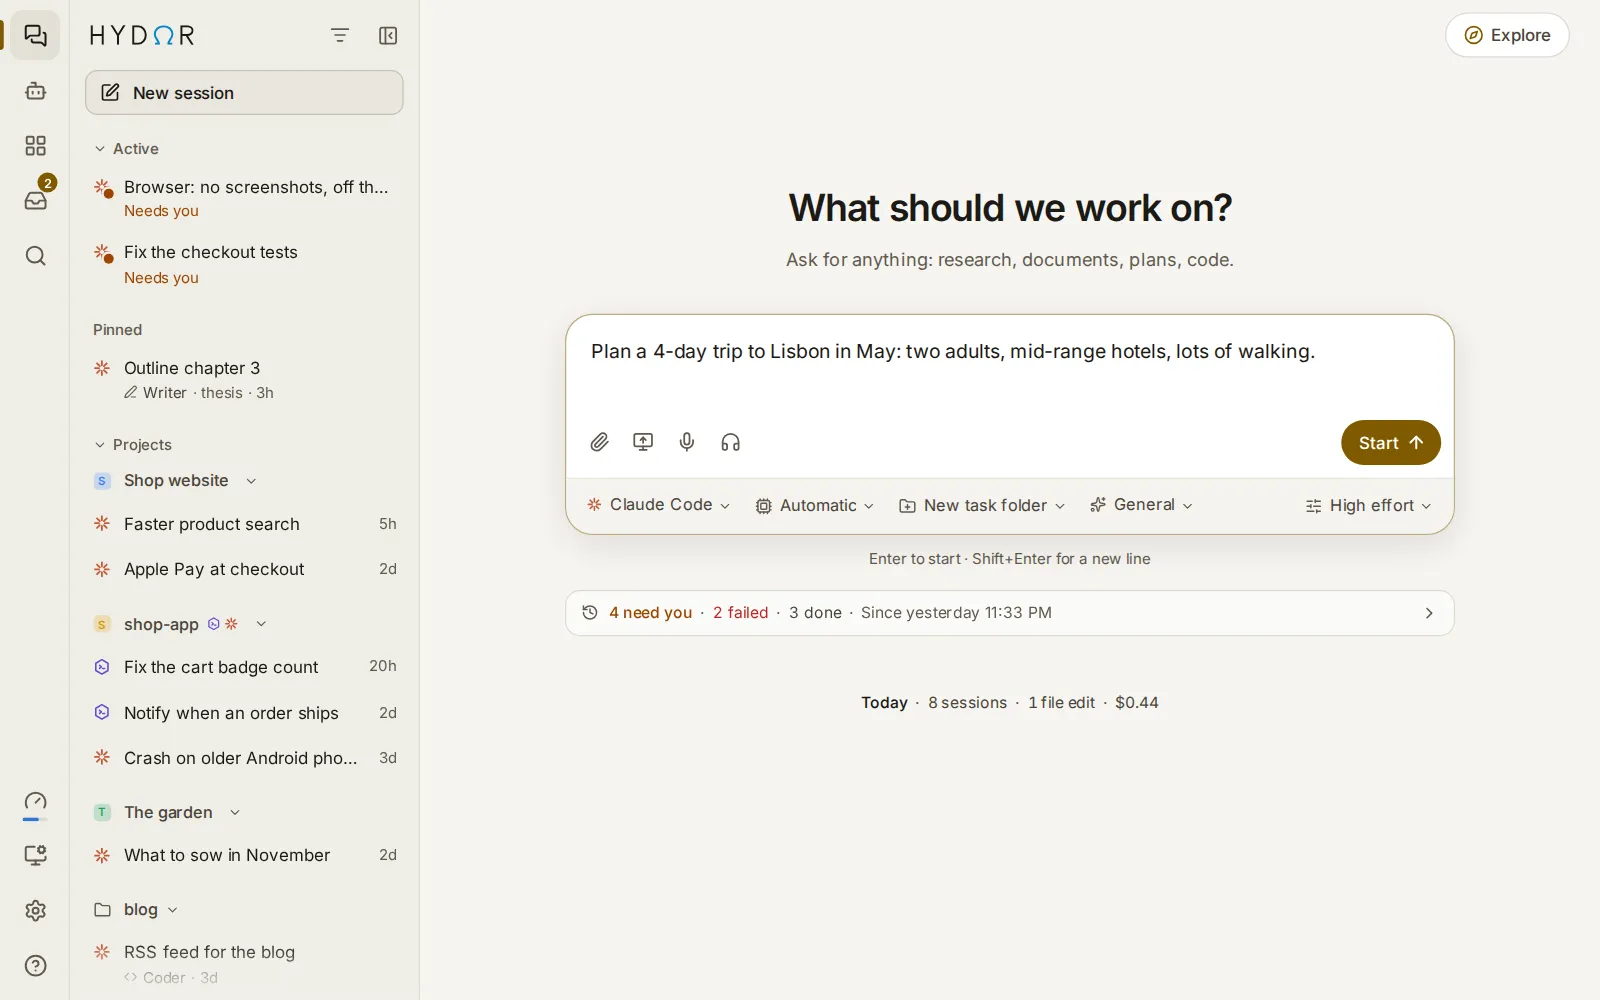
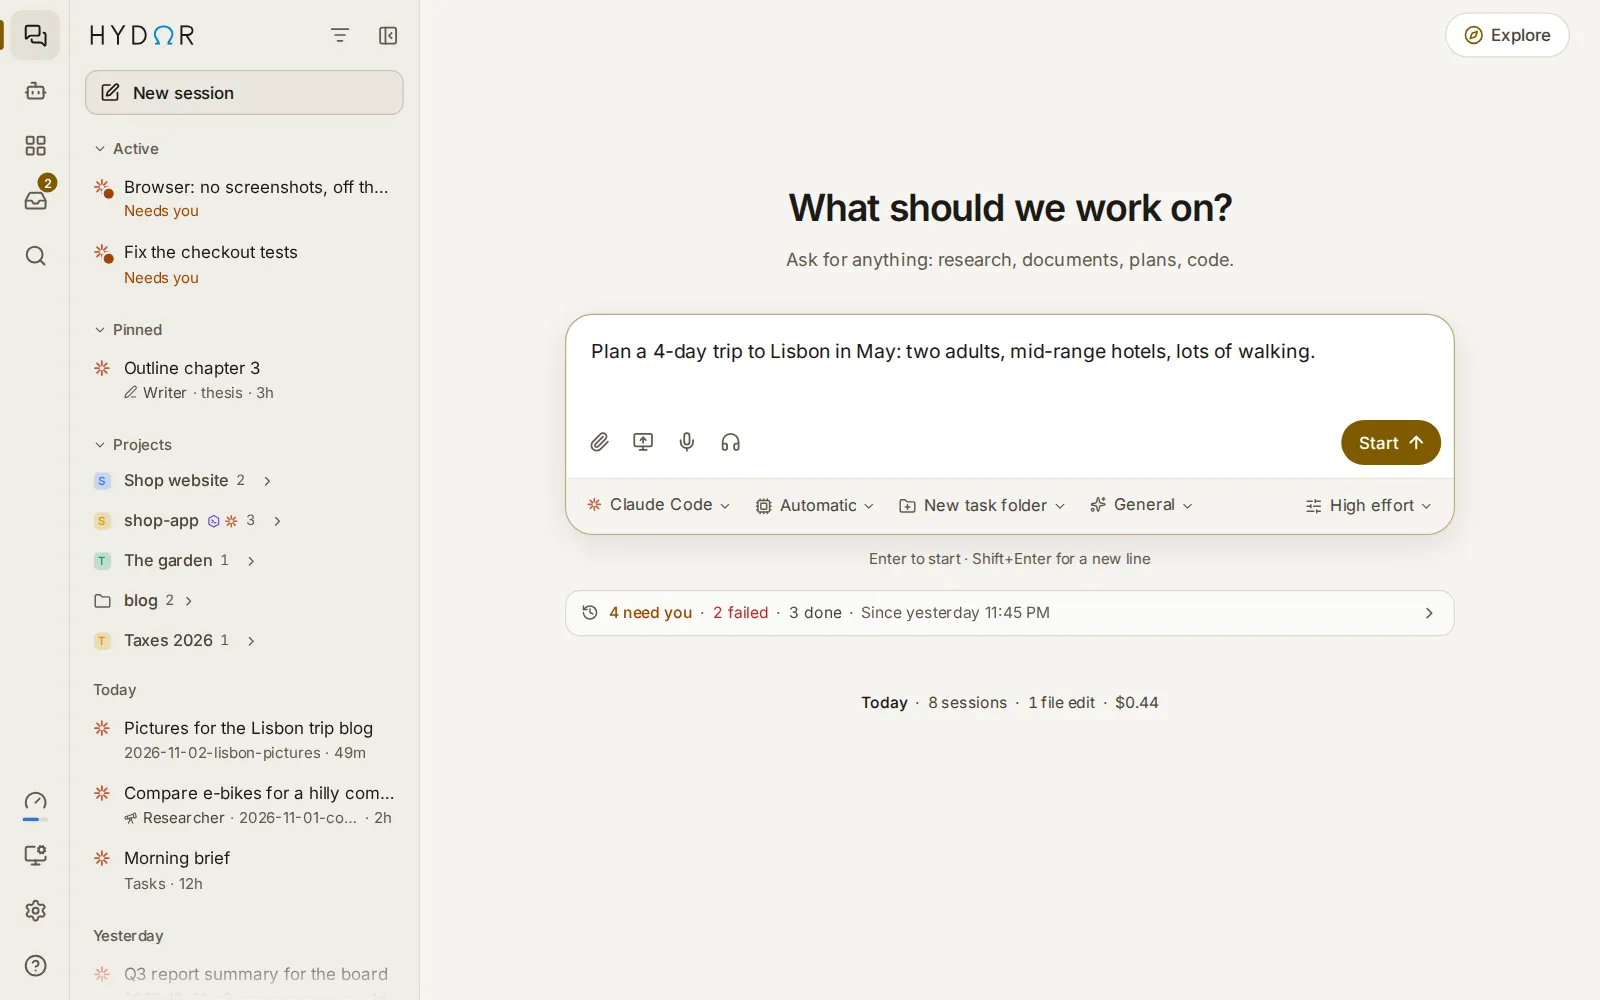
Windows open with motion, Pinned folds like Active, and the Projects groups start folded. Under Motion: Full, windows come in over a page whose dim fades in (.scrim.holds::before, and .anim-overlay for a popover shown as a phone's sheet): a dialog or a window (Dialog, the project's details, FilePeek

diff --git a/web/src/features/sessions/SessionList.tsx b/web/src/features/sessions/SessionList.tsx
@@ -534,6 +534,26 @@ const DraggableRow = memo(function DraggableRow(p: RowProps) {
   return <RowShell {...p} drag={{ ref: setNodeRef, attrs: { ...attributes, ...(listeners as HTMLAttributes<HTMLDivElement>) }, lifted: isDragging }} />;
 });
 
+/**
+ * The Active and Pinned headings: a click (a tap) folds the section away and opens it again, as each computer keeps it.
+ * Folded, it says how many sessions it holds, with a dot when one finished since you last looked.
+ */
+function SectionHead({ label, folded, count, unread, onFold }: { label: string; folded: boolean; count: number; unread: boolean; onFold: () => void }) {
+  return (
+    <button
+      type="button"
+      aria-expanded={!folded}
+      onClick={onFold}
+      className="sticky top-0 z-[1] flex w-full items-center gap-1 bg-sidebar px-2.5 pt-1.5 pb-1 text-left text-[12px] font-medium text-fg-3 hover:text-fg-2"
+    >
+      <ChevronRight size={12} className={cx('shrink-0 transition-transform duration-200', !folded && 'rotate-90')} />
+      {label}
+      {folded && <span className="tnum ml-0.5 font-normal">{count}</span>}
+      {folded && unread && <span className="ml-0.5 h-1.5 w-1.5 shrink-0 rounded-full bg-accent" title="Finished since you last looked" />}
+    </button>
+  );
+}
+
 function PinZone({ hot }: { hot: boolean }) {
   const { setNodeRef } = useDroppable({ id: PIN_ZONE });
   return (
@@ -952,7 +972,7 @@ export function SessionList({ query }: { query: string }) {
   const folds = useUI((s) => s.groupFolds);
   const sectionFolds = useUI((s) => s.sidebarSectionFolds);
   // Top-level sections are independent of the project and folder folds inside them.
-  const foldSection = (section: 'active' | 'projects') => {
+  const foldSection = (section: 'active' | 'pinned' | 'projects') => {
     const current = useUI.getState().sidebarSectionFolds;
     useUI.getState().set({ sidebarSectionFolds: { ...current, [section]: !current?.[section] } });
   };
@@ -1008,7 +1028,7 @@ export function SessionList({ query }: { query: string }) {
   /** Folds a group or opens it; the 200 changed last are kept. */
   const fold = (g: SessionGroup) => {
     const all = useUI.getState().groupFolds;
-    const shut = isFolded(g, all, Date.now());
+    const shut = isFolded(g, all);
     const { [g.id]: _, ...rest } = all;
     useUI.getState().set({ groupFolds: { ...Object.fromEntries(Object.entries(rest).slice(-199)), [g.id]: !shut } });
   };
@@ -1120,14 +1140,19 @@ export function SessionList({ query }: { query: string }) {
   const dragging = dragKey ? byKey[dragKey] : null;
   const draggingPlace = dragPlace ? groups.find((g) => g.id === dragPlace) : undefined;
   const datedDrag = !!dragKey && groupOf.get(dragKey) === 'dated';
-  // No Pinned group yet: dragging a dated session shows where to drop it to pin it.
-  const zoneAt = datedDrag && !groups.some((g) => g.kind === 'pinned') ? (groups[0]?.kind === 'active' ? 1 : 0) : -1;
+  // Dragging a dated session shows where to drop it to pin it while there are no Pinned rows to drop it among: no
+  // Pinned group yet (under Active, or first), or Pinned folded (under its heading).
+  const pinAt = groups.findIndex((g) => g.kind === 'pinned');
+  const zoneAt = !datedDrag ? -1 : pinAt < 0 ? (groups[0]?.kind === 'active' ? 1 : 0) : sectionFolds?.pinned ? pinAt + 1 : -1;
   // What each group shows: a space's or a folder's newest few (all once asked, none while folded), and the session open.
-  // While one of those groups is dragged, they all show as their headings alone.
-  const now = Date.now();
-  const shut = new Set(groups.filter((g) => isPlace(g) && (!!dragPlace || isFolded(g, folds, now))).map((g) => g.id));
+  // While one of those groups is dragged, they all show as their headings alone. Active or Pinned folded keeps only the
+  // session open in sight.
+  const shut = new Set(groups.filter((g) => isPlace(g) && (!!dragPlace || isFolded(g, folds))).map((g) => g.id));
   const shownRows = groups.map((g) => {
-    if (g.kind === 'active' && sectionFolds?.active) return [];
+    if ((g.kind === 'active' || g.kind === 'pinned') && sectionFolds?.[g.kind]) {
+      const open = activeKey ? g.items.find((s) => s.key === activeKey) : undefined;
+      return open ? [open] : [];
+    }
     if (!isPlace(g)) return g.items;
     if (dragPlace) return [];
     const rows = shut.has(g.id) ? [] : shownWhole.has(g.id) ? g.items : g.items.slice(0, GROUP_ROWS);
@@ -1189,10 +1214,8 @@ export function SessionList({ query }: { query: string }) {
       <>
         {place ? (
           <PlaceHead g={g} folded={shutNow} home={home} onFold={() => fold(g)} handle={handle} />
-        ) : g.kind === 'active' ? (
-          <button type="button" aria-expanded={!sectionFolds?.active} onClick={() => foldSection('active')} className="sticky top-0 z-[1] flex w-full items-center gap-1 bg-sidebar px-2.5 pt-1.5 pb-1 text-left text-[12px] font-medium text-fg-3 hover:text-fg-2">
-            <ChevronRight size={12} className={cx('shrink-0 transition-transform duration-200', !sectionFolds?.active && 'rotate-90')} />{g.label}
-          </button>
+        ) : g.kind === 'active' || g.kind === 'pinned' ? (
+          <SectionHead label={g.label} folded={!!sectionFolds?.[g.kind]} count={g.items.length} unread={g.items.some(unreadOf)} onFold={() => foldSection(g.kind as 'active' | 'pinned')} />
         ) : (
           <div className="sticky top-0 z-[1] bg-sidebar px-2.5 pt-1.5 pb-1 text-[12px] font-medium text-fg-3">{g.label}</div>
         )}
@@ -1261,6 +1284,7 @@ export function SessionList({ query }: { query: string }) {
         {listed.map((part) =>
           part.kind === 'places' ? (
             <Fragment key={`places:${part.first}`}>
+              {part.first === zoneAt && <PinZone hot={overGroup === 'pinned'} />}
               <div className={cx('group/sec flex items-center pr-2', part.first > 0 && 'mt-2')}>
                 <button type="button" data-tip="spaces" aria-expanded={!sectionFolds?.projects} onClick={() => foldSection('projects')} className="flex min-w-0 flex-1 items-center gap-1 px-[18px] pt-1.5 pb-1 text-left text-[12px] font-medium text-fg-3 hover:text-fg-2">
                   <ChevronRight size={12} className={cx('shrink-0 transition-transform duration-200', !sectionFolds?.projects && 'rotate-90')} />Projects

diff --git a/web/src/styles.css b/web/src/styles.css
@@ -276,15 +276,16 @@ html {
    something changed: a pressed button dips, a rail icon leans to the pointer, a copy turns into a check, a switch
    springs, the rail's bar glides to the page you opened, a session's dot changes with its status, lists glide to their
    new places, numbers count, a badge pops, the logo's water rises once when a session finishes, pictures shimmer
-   until they arrive, a finished step draws its check. Four things bend the old rule that what you open shows at once,
+   until they arrive, a finished step draws its check. Five things bend the old rule that what you open shows at once,
    with no fade, because they make a change easier to follow than a cut does: the column beside a page slides, pages
-   and themes cross-fade (and the sidebar slides, in Shell.tsx). The rest of the rule stands: pages, tabs, dialogs, menus,
-   popovers, sheets and the parts you unfold show at once, and only what arrives by itself comes in softly: a message,
-   a toast, a card asking you something.
+   and themes cross-fade (and the sidebar slides, in Shell.tsx), and windows come in over a page that dims in behind
+   them (.anim-modal and its kin, below the scrims). The rest of the rule stands: pages, tabs, menus, popovers and the
+   parts you unfold show at once, and only what arrives by itself comes in softly: a message, a toast, a card asking
+   you something.
 
-   Settings → General → Appearance → Motion is on <html> as data-motion: full (all of it), calm (all but the four that
+   Settings → General → Appearance → Motion is on <html> as data-motion: full (all of it), calm (all but the five that
    move as you open things) or off (none of it). The system's Reduce motion always means off (lib/motion.ts). So each
-   new motion here is gated by `html:not([data-motion=off])`, the four by `html[data-motion=full]`; a motion made in
+   new motion here is gated by `html:not([data-motion=off])`, the five by `html[data-motion=full]`; a motion made in
    script asks lib/motion.ts (motionOn, motionFull). The two curves are --ease-app and --spring. */
 :root {
   --ease-app: cubic-bezier(0.2, 0.8, 0.2, 1);
@@ -957,6 +958,68 @@ html[data-vt='theme']::view-transition-group(root) {
     -webkit-backdrop-filter: none;
     backdrop-filter: none;
     background-color: rgb(0 0 0 / 0.55);
+  }
+}
+
+/* Windows you open come in, one of the five motions that play as you open things (Full only): the page behind dims in,
+   a dialog or a window (a project's, a file's, a page over the app) rises a little as it grows to its size, or on a
+   phone, where it stands at the bottom, rises from the screen's edge as a sheet does; a panel at the side slides in
+   from the right; the search box and a picture fade in, quickly, so typing and looking are never held back. Only as
+   they open: they close at once. */
+@keyframes modal-zoom {
+  from {
+    opacity: 0;
+    transform: translateY(10px) scale(0.965);
+  }
+  to {
+    opacity: 1;
+    transform: none;
+  }
+}
+@keyframes modal-rise {
+  from {
+    transform: translateY(100%);
+  }
+  to {
+    transform: none;
+  }
+}
+@keyframes modal-side {
+  from {
+    opacity: 0.4;
+    transform: translateX(56px);
+  }
+  to {
+    opacity: 1;
+    transform: none;
+  }
+}
+@keyframes modal-soft {
+  from {
+    opacity: 0;
+    transform: scale(0.985);
+  }
+  to {
+    opacity: 1;
+    transform: none;
+  }
+}
+html[data-motion='full'] .scrim.holds::before,
+html[data-motion='full'] .anim-overlay {
+  animation: overlay-in 200ms ease-out both;
+}
+html[data-motion='full'] .anim-modal {
+  animation: modal-zoom 240ms var(--ease-app) both;
+}
+html[data-motion='full'] .anim-modal-side {
+  animation: modal-side 260ms var(--ease-app) both;
+}
+html[data-motion='full'] .anim-modal-soft {
+  animation: modal-soft 160ms var(--ease-app) both;
+}
+@media (max-width: 639px) {
+  html[data-motion='full'] .anim-modal {
+    animation: modal-rise 280ms var(--ease-app) both;
   }
 }
 

diff --git a/web/src/components/ui.tsx b/web/src/components/ui.tsx
@@ -289,10 +289,10 @@ export function Popover({
     const kb = !!room && room.bottom > 0;
     return createPortal(
       <div ref={ref} role="dialog" aria-modal data-i18n={part} className="fixed inset-0 z-50" style={z ? { zIndex: z } : undefined}>
-        <div className="absolute inset-0 touch-none bg-black/40" onClick={onClose} aria-hidden />
+        <div className="anim-overlay absolute inset-0 touch-none bg-black/40" onClick={onClose} aria-hidden />
         <div
           style={{ bottom: room?.bottom ?? 0, maxHeight: room ? `calc(${room.height}px - var(--safe-top) - 12px)` : undefined }}
-          className="absolute inset-x-0 flex max-h-[calc(100dvh-var(--safe-top)-12px)] flex-col rounded-t-[20px] border border-b-0 border-line bg-elevated shadow-lg"
+          className="anim-modal absolute inset-x-0 flex max-h-[calc(100dvh-var(--safe-top)-12px)] flex-col rounded-t-[20px] border border-b-0 border-line bg-elevated shadow-lg"
         >
           <div className="flex shrink-0 items-center gap-2 pt-2.5 pr-2.5 pb-1 pl-4">
             <div className="min-w-0 flex-1 truncate text-[15px] font-semibold tracking-tight">{title}</div>
@@ -578,7 +578,7 @@ export function Dialog({
         aria-modal
         aria-label={label}
         style={{ maxWidth: width }}
-        className={cx('flex max-h-[92dvh] w-full flex-col rounded-t-[20px] border border-line bg-elevated shadow-lg sm:rounded-[20px]', bare && 'overflow-hidden')}
+        className={cx('anim-modal flex max-h-[92dvh] w-full flex-col rounded-t-[20px] border border-line bg-elevated shadow-lg sm:rounded-[20px]', bare && 'overflow-hidden')}
       >
         {bare ? children : title && (
           <div className="flex items-center gap-2 px-5 pt-4 pb-1">
@@ -620,7 +620,7 @@ export function Sheet({ open, onClose, children, label, width = 560 }: { open: b
       onPointerDown={(e) => (pressed.current = e.target === e.currentTarget)}
       onClick={(e) => pressed.current && e.target === e.currentTarget && onClose()}
     >
-      <div role="dialog" aria-modal aria-label={label} style={{ '--sheet-w': `${width}px` } as CSSProperties} className="flex h-full w-full flex-col overflow-hidden border-l border-line bg-bg shadow-lg sm:max-w-[var(--sheet-w)] max-sm:border-l-0">
+      <div role="dialog" aria-modal aria-label={label} style={{ '--sheet-w': `${width}px` } as CSSProperties} className="anim-modal-side flex h-full w-full flex-col overflow-hidden border-l border-line bg-bg shadow-lg sm:max-w-[var(--sheet-w)] max-sm:border-l-0">
         {children}
       </div>
     </div>,

diff --git a/web/src/features/sessions/groups-test.ts b/web/src/features/sessions/groups-test.ts
@@ -6,7 +6,7 @@ import assert from 'node:assert/strict';
 import type { FolderOrigin } from '@shared/sidebar';
 import type { SpaceView } from '@shared/spaces';
 import type { SessionSummary } from '@shared/types';
-import { ACTIVE_MS, groupSessions, isFolded, STALE_MS, unpickedFolders, type SessionGroup } from './groups';
+import { ACTIVE_MS, groupSessions, isFolded, unpickedFolders, type SessionGroup } from './groups';
 
 const HOME = '/home/alex';
 const now = new Date(2026, 10, 2, 15, 0);
@@ -328,14 +328,14 @@ test('with grouping off, everything but active, pinned and snoozed goes by day, 
   assert.deepEqual(shape(gs), ['Today: Session 1, Session 2']);
 });
 
-test('a group shows folded as you left it, else once none of its sessions was at work this week', () => {
+test('a group shows folded as you left it, else folded: each starts as its heading', () => {
   n = 0;
   const fresh = group([ses(`${HOME}/code/a`, H), ses(`${HOME}/code/a`, 2 * H)])[0];
-  const stale = group([ses(`${HOME}/code/b`, STALE_MS + H), ses(`${HOME}/code/b`, STALE_MS + 2 * H)])[0];
-  assert.equal(isFolded(fresh, {}, now.getTime()), false);
-  assert.equal(isFolded(stale, {}, now.getTime()), true);
-  assert.equal(isFolded(fresh, { [fresh.id]: true }, now.getTime()), true);
-  assert.equal(isFolded(stale, { [stale.id]: false }, now.getTime()), false);
+  const old = group([ses(`${HOME}/code/b`, 30 * 24 * H), ses(`${HOME}/code/b`, 31 * 24 * H)])[0];
+  assert.equal(isFolded(fresh, {}), true, 'a group with a session from an hour ago starts folded too');
+  assert.equal(isFolded(old, {}), true);
+  assert.equal(isFolded(fresh, { [fresh.id]: false }), false, 'one you opened stays open');
+  assert.equal(isFolded(old, { [old.id]: true }), true);
 });
 
 for (const [name, fn] of tests) {

diff --git a/web/src/features/sessions/groups.ts b/web/src/features/sessions/groups.ts
@@ -34,8 +34,6 @@ export interface SessionGroup {
 export const FOLDER_MIN = 2;
 /** Rows a space or folder group shows before "Show N more". */
 export const GROUP_ROWS = 5;
-/** A space or folder group with no session this recent starts folded. */
-export const STALE_MS = 7 * 86400_000;
 /** Active means recent activity, background tasks (agents, commands, monitors) still running, or a session scheduled to resume after a usage limit. */
 export const ACTIVE_MS = 5 * 60_000;
 /**
@@ -46,8 +44,8 @@ export const hasBackgroundWork = (s: SessionSummary) =>
   !!(s.live && s.live.status !== 'exited' && s.live.status !== 'error' && s.live.backgroundTasks?.length) || !!s.external?.backgroundTasks?.length || !!s.helpers;
 export const lastActivityAt = (s: SessionSummary) => Math.max(s.updatedAt ?? s.createdAt ?? 0, s.doneAt ?? 0, s.live?.startedAt ?? 0, s.live?.turnStartedAt ?? 0, s.external?.since ?? 0);
 
-/** Whether a space or folder group shows folded: as you left it, else when none of its sessions was at work this week. */
-export const isFolded = (g: SessionGroup, folds: Record<string, boolean>, now: number) => folds[g.id] ?? now - (g.items[0]?.updatedAt ?? 0) > STALE_MS;
+/** Whether a space or folder group shows folded: as you left it, else folded (each starts as its heading, and opens when you open it). */
+export const isFolded = (g: SessionGroup, folds: Record<string, boolean>) => folds[g.id] ?? true;
 
 const trim = (p: string) => (p.length > 1 && !/^[A-Za-z]:[\\/]$/.test(p) ? p.replace(isWinPath(p) ? /[\\/]+$/ : /\/+$/, '') : p);
 

diff --git a/shared/find-catalog.ts b/shared/find-catalog.ts
@@ -103,7 +103,7 @@ export const OPTIONS: [string, string, string, string, string?][] = [
   ['general', 'New theme', 'custom colours colors make create theme editor', 'Make a theme of your own from any of them'],
   ['general', 'Import', 'import share theme', 'Add a theme someone shared', 'Import a theme'],
   ['general', 'Language', 'language translate translation chinese greek 中文 简体 ελληνικά english', 'The language the app is shown in, and agents write in'],
-  ['general', 'Motion', 'animation animations reduce motion calm full off transitions movement fade slide', 'How much of the app moves: full, calm (nothing slides or fades as you open a page), or none'],
+  ['general', 'Motion', 'animation animations reduce motion calm full off transitions movement fade slide', 'How much of the app moves: full, calm (nothing slides or fades as you open a page or a window), or none'],
   ['general', 'Sending while an agent works', 'enter join turn queue wait steer message', 'Enter joins the running turn, or waits for it to end'],
   ['general', 'Terminal suggestions', 'autocomplete completion shell commands', 'Grey completions after the cursor in terminals'],
   ['general', 'Resume after usage limits', 'limit reset continue automatically plan', 'Continues a session a minute after a plan’s limit resets'],

diff --git a/web/src/components/Lightbox.tsx b/web/src/components/Lightbox.tsx
@@ -99,7 +99,7 @@ export function Lightbox() {
         </button>
       </div>
       <div
-        className={cx('relative min-h-0 flex-1', zoom ? 'overflow-auto' : 'flex items-center justify-center overflow-hidden px-3 pb-3')}
+        className={cx('anim-modal-soft relative min-h-0 flex-1', zoom ? 'overflow-auto' : 'flex items-center justify-center overflow-hidden px-3 pb-3')}
         onPointerDown={(e) => e.target === e.currentTarget && close()}
       >
         <img
@@ -159,7 +159,7 @@ export function VideoBox() {
           <X size={18} />
         </button>
       </div>
-      <div className="flex min-h-0 flex-1 items-center justify-center px-3 pb-6" onPointerDown={(e) => e.target === e.currentTarget && closeVideo()}>
+      <div className="anim-modal-soft flex min-h-0 flex-1 items-center justify-center px-3 pb-6" onPointerDown={(e) => e.target === e.currentTarget && closeVideo()}>
         <iframe
           src={`${src}${src.includes('?') ? '&' : '?'}autoplay=1`}
           title={title || 'Video'}

diff --git a/web/src/features/settings/GeneralSettings.tsx b/web/src/features/settings/GeneralSettings.tsx
@@ -91,13 +91,13 @@ export function GeneralSettings() {
   );
 }
 
-/** How much moves on this device: Full, Calm (nothing slides or fades as you open a page), or Off. */
+/** How much moves on this device: Full, Calm (nothing slides or fades as you open a page or a window), or Off. */
 function MotionSetting() {
   const motion = useUI((s) => s.motion);
   return (
     <Row
       label="Motion"
-      hint="Full, Calm (nothing slides or fades as you open a page) or Off. Your device's Reduce motion setting always wins"
+      hint="Full, Calm (nothing slides or fades as you open a page or a window) or Off. Your device's Reduce motion setting always wins"
       control={
         // "Full" here is how much moves (its own entry in the dictionaries: "motion::Full").
         <span data-i18n="motion">

diff --git a/web/src/features/files/FilePeek.tsx b/web/src/features/files/FilePeek.tsx
@@ -114,7 +114,7 @@ export function FilePeek() {
               role="dialog"
               aria-modal
               aria-label={basename(file.path) || file.path}
-              className="flex h-[92dvh] w-full max-w-[1100px] flex-col overflow-hidden rounded-t-[20px] border border-line bg-elevated shadow-lg sm:h-[min(88dvh,960px)] sm:rounded-[20px]"
+              className="anim-modal flex h-[92dvh] w-full max-w-[1100px] flex-col overflow-hidden rounded-t-[20px] border border-line bg-elevated shadow-lg sm:h-[min(88dvh,960px)] sm:rounded-[20px]"
             >
               <div className={file.back ? 'flex shrink-0 items-center gap-1 py-2 pr-2.5 pl-2' : 'flex shrink-0 items-center gap-1 py-2 pr-2.5 pl-5'}>
                 {file.back && (

diff --git a/web/src/features/pages/overlay.tsx b/web/src/features/pages/overlay.tsx
@@ -12,7 +12,7 @@ export function PageOverlay({ title, onClose, actions, children }: { title: Reac
   }, [onClose]);
   return createPortal(
     <div className="scrim holds fixed inset-0 z-50 flex flex-col p-0 sm:p-6 [--scrim:0.6]" onPointerDown={(e) => e.target === e.currentTarget && onClose()}>
-      <div className="flex min-h-0 flex-1 flex-col overflow-hidden bg-panel sm:rounded-2xl">
+      <div className="anim-modal flex min-h-0 flex-1 flex-col overflow-hidden bg-panel sm:rounded-2xl">
         <div className="flex items-center gap-2 border-b border-line px-4 py-2 pt-[max(8px,var(--safe-top))]">
           <span className="min-w-0 flex-1 truncate text-[14px] font-medium">{title}</span>
           {actions}

diff --git a/web/src/features/session/SessionView.tsx b/web/src/features/session/SessionView.tsx
@@ -762,7 +762,7 @@ export function SessionView({ sessionKey }: { sessionKey: string }) {
             // Over the whole app, so the sidebar dims with the rest and its group headings stay behind.
             createPortal(
               <div className="scrim holds fixed inset-0 z-40 flex justify-end [--scrim:0.26]" onPointerDown={(e) => e.target === e.currentTarget && close()}>
-                <div className="h-full w-full max-w-[440px] border-l border-line shadow-lg">
+                <div className="anim-modal-side h-full w-full max-w-[440px] border-l border-line shadow-lg">
                   <Details s={summary} version={version} onClose={close} />
                 </div>
               </div>,

diff --git a/web/src/features/palette/CommandPalette.tsx b/web/src/features/palette/CommandPalette.tsx
@@ -557,7 +557,7 @@ export function CommandPalette() {
         // Escape from inside the preview (its video player) closes the box too; the field handles its own.
         onKeyDown={(e) => e.key === 'Escape' && !e.defaultPrevented && !picking && close()}
         className={cx(
-          'flex flex-col overflow-hidden bg-elevated shadow-lg',
+          'anim-modal-soft flex flex-col overflow-hidden bg-elevated shadow-lg',
           mobile ? 'h-full w-full pt-[var(--safe-top)]' : cx('h-fit max-h-[72vh] w-full rounded-2xl border border-line', wide ? 'max-w-[860px]' : 'max-w-[640px]'),
         )}
       >
